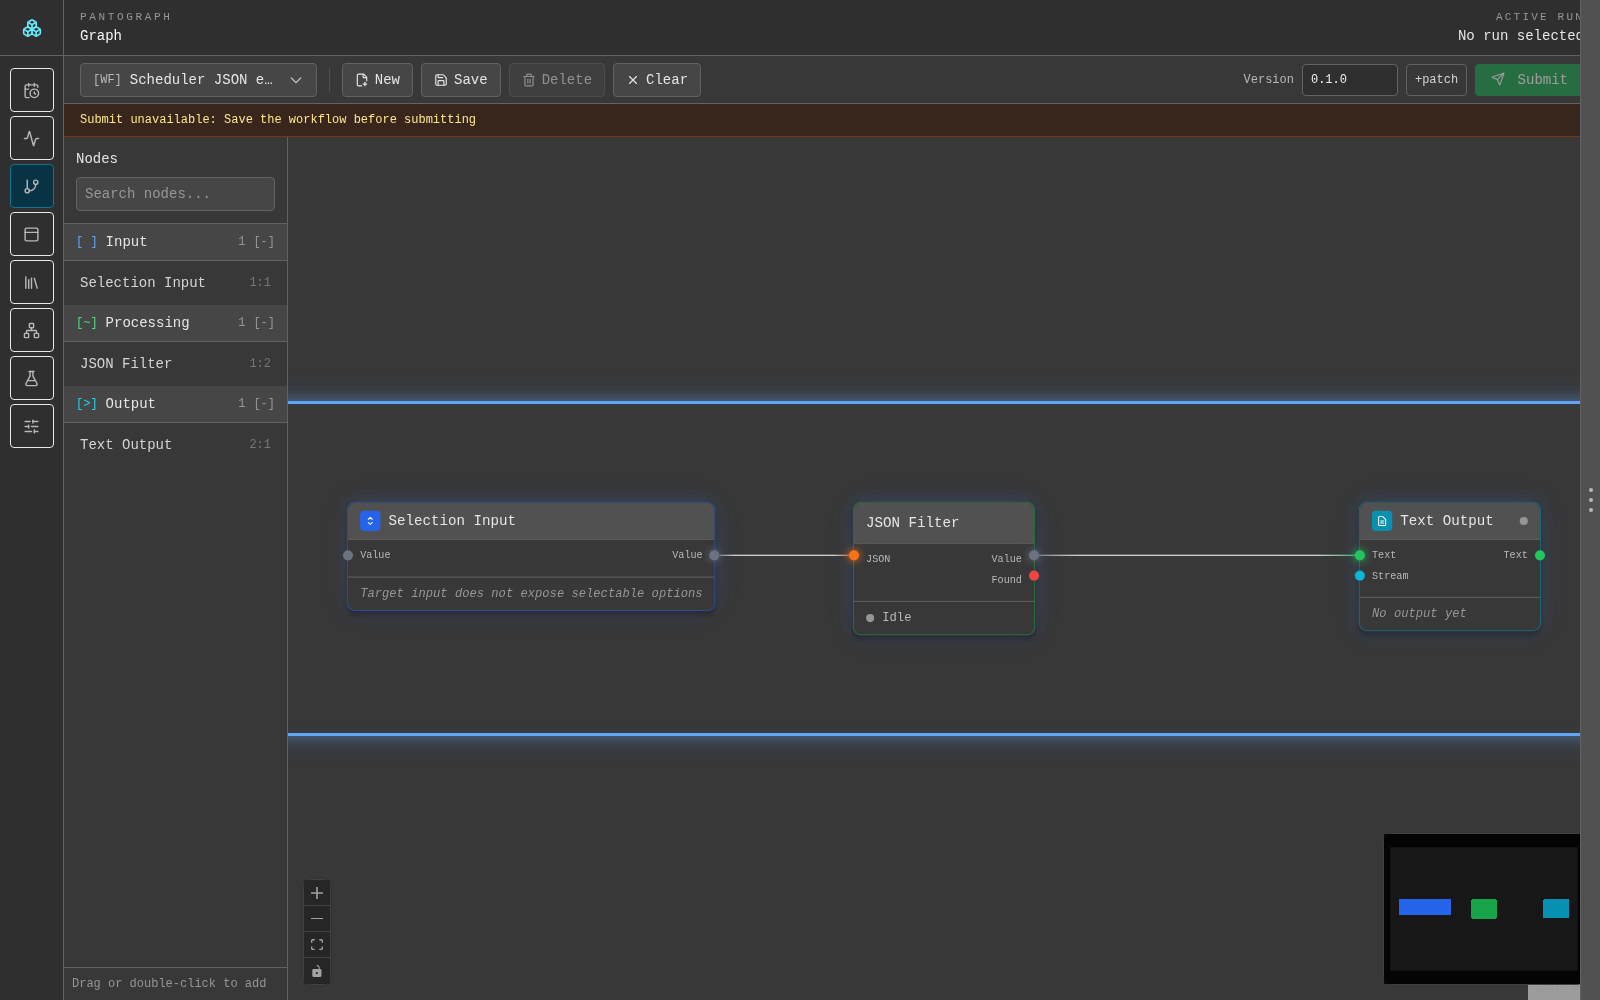
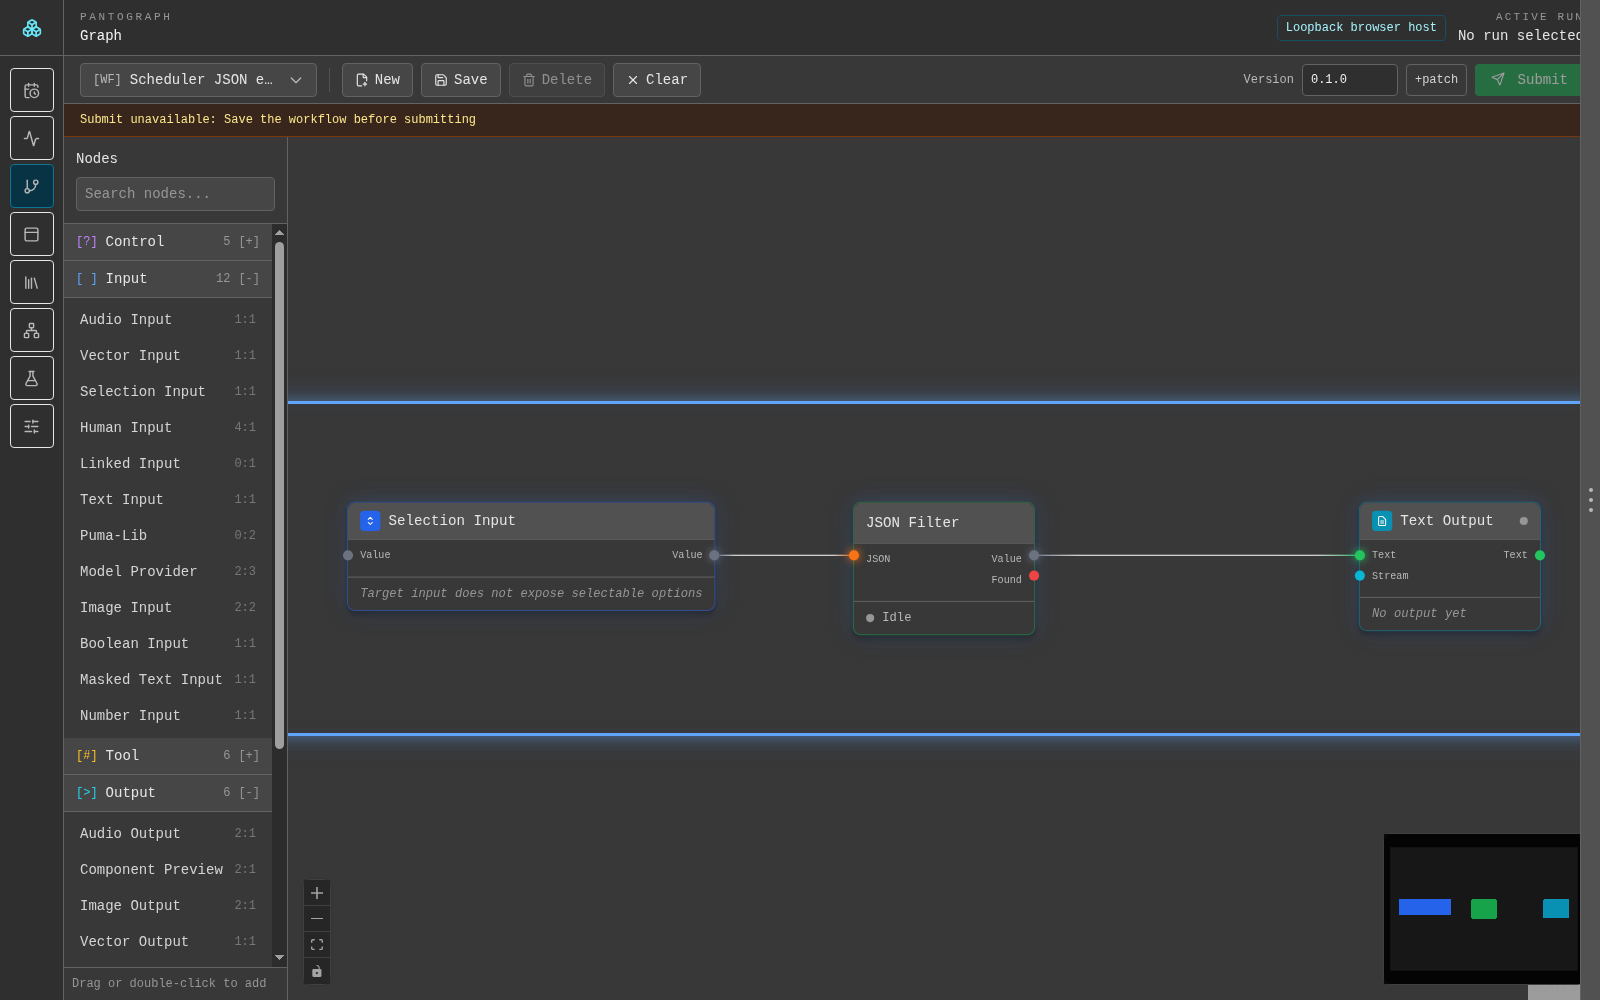
Refresh Pantograph portfolio captures from approved live host

diff --git a/docs/portfolio/index.html b/docs/portfolio/index.html
@@ -70,10 +70,10 @@
           <div class="project-body"><div class="project-copy"><h3 id="pantograph-title">Pantograph</h3><p class="project-deck">Make the workflow<br>visible.</p><p>A local-first, Rust-native platform for node-based AI workflows. The optional Svelte/Tauri workbench sits over native workflow, inference, scheduling, and diagnostic modules.</p><ul class="project-points"><li>Node contracts and graph-based composition</li><li>Resource-aware runtime scheduling</li><li>Run artifacts, diagnostics, and provenance</li></ul><div class="tags"><span>Rust</span><span>Svelte / Tauri</span><span>Graph tooling</span></div><div class="project-links"><a href="https://github.com/MrScripty/Pantograph">Explore the source <svg class="icon " viewBox="0 0 24 24" fill="none" stroke="currentColor" stroke-width="1.6" stroke-linecap="round" stroke-linejoin="round" aria-hidden="true"><path d="M5 19 19 5M5 5h14v14"/></svg></a><a href="https://github.com/MrScripty/Pantograph/blob/main/ARCHITECTURE.md">Architecture & status <svg class="icon " viewBox="0 0 24 24" fill="none" stroke="currentColor" stroke-width="1.6" stroke-linecap="round" stroke-linejoin="round" aria-hidden="true"><path d="M5 19 19 5M5 5h14v14"/></svg></a></div></div>
           <div class="project-visual" id="visual-pantograph">
             <!-- SCREENSHOT_SLOT:pantograph:START -->
-<figure class="app-capture"><a class="capture-button" href="assets/pantograph-node-editor.png" aria-label="Enlarge Pantograph Svelte editor showing Selection Input connected to JSON Filter and Text Output, with Submit unavailable and No output yet visible."><img src="assets/pantograph-node-editor.png" alt="Pantograph Svelte editor showing Selection Input connected to JSON Filter and Text Output, with Submit unavailable and No output yet visible." width="1600" height="1000" loading="lazy" decoding="async"><span class="capture-zoom" aria-hidden="true">View full size <svg class="icon " viewBox="0 0 24 24" fill="none" stroke="currentColor" stroke-width="1.6" stroke-linecap="round" stroke-linejoin="round" aria-hidden="true"><path d="M5 19 19 5M5 5h14v14"/></svg></span></a><figcaption><strong>Actual Svelte editor · Browser render.</strong> The three-node graph is loaded; submission remains unavailable in this capture.</figcaption></figure><div class="demo-captures"><figure class="app-capture"><a class="capture-button" href="assets/pantograph-scheduler-success.png" aria-label="Enlarge Pantograph’s minimal browser demo host showing successful native Rust scheduler execution and JSON-extracted text."><img src="assets/pantograph-scheduler-success.png" alt="Pantograph’s minimal browser demo host showing successful native Rust scheduler execution and JSON-extracted text." width="1600" height="1535" loading="lazy" decoding="async"><span class="capture-zoom" aria-hidden="true">View full size <svg class="icon " viewBox="0 0 24 24" fill="none" stroke="currentColor" stroke-width="1.6" stroke-linecap="round" stroke-linejoin="round" aria-hidden="true"><path d="M5 19 19 5M5 5h14v14"/></svg></span></a><figcaption><strong>Native scheduler · Success.</strong> Real deterministic JSON extraction in a separate browser host.</figcaption></figure><figure class="app-capture"><a class="capture-button" href="assets/pantograph-scheduler-rejection.png" aria-label="Enlarge Pantograph’s minimal browser demo host showing a missing JSON path rejected and the output task marked Invalid."><img src="assets/pantograph-scheduler-rejection.png" alt="Pantograph’s minimal browser demo host showing a missing JSON path rejected and the output task marked Invalid." width="1600" height="1355" loading="lazy" decoding="async"><span class="capture-zoom" aria-hidden="true">View full size <svg class="icon " viewBox="0 0 24 24" fill="none" stroke="currentColor" stroke-width="1.6" stroke-linecap="round" stroke-linejoin="round" aria-hidden="true"><path d="M5 19 19 5M5 5h14v14"/></svg></span></a><figcaption><strong>Native scheduler · Rejection.</strong> Missing-path input produces an actual failed task and diagnostic record.</figcaption></figure></div>
+<figure class="app-capture"><a class="capture-button" href="assets/pantograph-node-editor.png" aria-label="Enlarge Pantograph’s Svelte Graph canvas connected to the loopback Rust host, with Selection Input, JSON Filter and Text Output. Editor submission remains unavailable in this host."><img src="assets/pantograph-node-editor.png" alt="Pantograph’s Svelte Graph canvas connected to the loopback Rust host, with Selection Input, JSON Filter and Text Output. Editor submission remains unavailable in this host." width="1600" height="1000" loading="lazy" decoding="async"><span class="capture-zoom" aria-hidden="true">View full size <svg class="icon " viewBox="0 0 24 24" fill="none" stroke="currentColor" stroke-width="1.6" stroke-linecap="round" stroke-linejoin="round" aria-hidden="true"><path d="M5 19 19 5M5 5h14v14"/></svg></span></a><figcaption><strong>Actual Svelte Graph · Live loopback host.</strong> Backend-produced graph and definitions; editor submission is outside the demo host’s capabilities.</figcaption></figure><div class="demo-captures"><figure class="app-capture"><a class="capture-button" href="assets/pantograph-scheduler-success.png" aria-label="Enlarge Pantograph’s minimal browser demo host showing successful native Rust scheduler execution and JSON-extracted text."><img src="assets/pantograph-scheduler-success.png" alt="Pantograph’s minimal browser demo host showing successful native Rust scheduler execution and JSON-extracted text." width="1600" height="1612" loading="lazy" decoding="async"><span class="capture-zoom" aria-hidden="true">View full size <svg class="icon " viewBox="0 0 24 24" fill="none" stroke="currentColor" stroke-width="1.6" stroke-linecap="round" stroke-linejoin="round" aria-hidden="true"><path d="M5 19 19 5M5 5h14v14"/></svg></span></a><figcaption><strong>Native scheduler · Success.</strong> Real deterministic JSON extraction through the persistent native host, with retained output.</figcaption></figure><figure class="app-capture"><a class="capture-button" href="assets/pantograph-scheduler-rejection.png" aria-label="Enlarge Pantograph’s minimal browser demo host showing a missing JSON path rejected and the output task marked Invalid."><img src="assets/pantograph-scheduler-rejection.png" alt="Pantograph’s minimal browser demo host showing a missing JSON path rejected and the output task marked Invalid." width="1600" height="1396" loading="lazy" decoding="async"><span class="capture-zoom" aria-hidden="true">View full size <svg class="icon " viewBox="0 0 24 24" fill="none" stroke="currentColor" stroke-width="1.6" stroke-linecap="round" stroke-linejoin="round" aria-hidden="true"><path d="M5 19 19 5M5 5h14v14"/></svg></span></a><figcaption><strong>Native scheduler · Rejection.</strong> Missing-path input produces an actual failed task and diagnostic record.</figcaption></figure></div>
 <!-- SCREENSHOT_SLOT:pantograph:END -->
           </div></div>
-          <details class="project-boundary"><summary>Technical scope &amp; verification</summary><p>Moving toward durable, scheduler-owned task execution. Implementation status is tracked in the repository; there is currently no single green repository-wide compliance command. The captures show native deterministic execution and browser editor rendering as separate surfaces. Desktop submission and model inference are outside this demonstration.</p></details>
+          <details class="project-boundary"><summary>Technical scope &amp; verification</summary><p>The captures use the real Svelte workbench connected to a persistent Rust scheduler over loopback HTTP. Diagnostics query the running service and the I/O Inspector reads retained output. The Graph canvas does not support editor submission in this demo host. These are browser captures; native Tauri execution and model inference are outside this demonstration.</p></details>
         </article>
 
         <article class="dataset-project" id="tuldok" aria-labelledby="tuldok-title"><div class="dataset-title"><span class="project-number">03</span><p class="eyebrow">DATASET TOOLING</p><h3 id="tuldok-title">Tuldok</h3></div><div class="dataset-copy"><p class="dataset-deck">A multimodal dataset workbench.</p><p>A local workspace for collecting, annotating, reviewing, and exporting datasets. Current workflows span image and text records, static mesh imports, and simulation-sequence inspection. Explicit provenance and human review keep source records and release decisions inspectable.</p><div class="tags"><span>Python</span><span>Browser UI</span><span>Dataset provenance</span></div><a class="text-link" href="https://github.com/MrScripty/Tuldok">Explore the source <svg class="icon " viewBox="0 0 24 24" fill="none" stroke="currentColor" stroke-width="1.6" stroke-linecap="round" stroke-linejoin="round" aria-hidden="true"><path d="M5 19 19 5M5 5h14v14"/></svg></a></div></article>

diff --git a/docs/portfolio/SOURCES.md b/docs/portfolio/SOURCES.md
@@ -75,6 +75,6 @@ The hero is an original SVG editorial concept map. The Pumas architecture panel 
 
 All source pixels were inspected before integration. Original PNG bytes are preserved; CSS scales images without cropping. File hashes, dimensions, source URLs, exact capture commits, and scope are in `assets/capture-provenance.json`.
 
-- **Pantograph**: capture branch pinned to `7c9cc6d94da0f4612d5240967bcc5e0aaafa6a9b`. The actual Svelte editor and the deterministic native scheduler demo are separate surfaces. Success and missing-path rejection screenshots show actual native results; no model weights, GPU inference, or end-to-end Tauri execution is established. Guide: https://github.com/MrScripty/Pantograph/blob/7c9cc6d94da0f4612d5240967bcc5e0aaafa6a9b/examples/scheduler-demo/README.md
+- **Pantograph**: approved captures pinned to `7fc3584cca8bef647b60ebf303c4b5d6b37d98bd` in PR #71. The real Svelte workbench connects to a persistent Rust workflow service over loopback HTTP. Diagnostics query that running service and the I/O Inspector reads retained scalar artifact bytes. The model catalog is a real isolated empty Pumas library. Success and deliberate missing-path rejection captures preserve actual native results. Graph editor mutation/submission is outside the demo host; native Tauri and model inference remain unqualified. Source PNG bytes are unchanged. Guide: https://github.com/MrScripty/Pantograph/blob/7fc3584cca8bef647b60ebf303c4b5d6b37d98bd/examples/scheduler-demo/README.md
 - **Rheon**: source capture commit `a2ebb8f11bcb65df0c70c45bfb8234d08b293a0a`, running app commit `34235d33c886aa05b5bdf95d920b863d1fb2ad6f`. Native Linux software-rendered solver comparison, 1650 × 900. The unequal accepted-time warning is visible. This is exploratory fixed-box solver evidence, not physical validation or a qualified speed comparison. Source: https://github.com/MrScripty/Rheon/blob/a2ebb8f11bcb65df0c70c45bfb8234d08b293a0a/README.md
 - **Kenoma**: source capture commit `9739080116b658e6248816f4e4239c4fde95ca94`, running app commit `e2ea6acc5db44794ae8b49beb877f5a8bccea056`. Chromium151, 1600 × 1000, actual Rust/WASM editor. Schematic posing and joint creasing are retained. Source: https://github.com/MrScripty/Kenoma/blob/9739080116b658e6248816f4e4239c4fde95ca94/README.md

diff --git a/docs/portfolio/README.md b/docs/portfolio/README.md
@@ -24,7 +24,7 @@ Then visit `http://127.0.0.1:8080` on that same computer. There is no dependency
 - An accessible screenshot enlargement dialog with a direct-image fallback
 - Dark / light sections, reduced-motion support, print styling, and a skip link
 
-The Pumas panel currently shows a clearly labeled authored architecture summary, not an app screenshot. Pantograph shows genuine captures of its browser-rendered Svelte editor and separate native scheduler demo. Rheon and Kenoma show genuine running-application captures. Each project has concise capability copy; detailed scope and verification notes use closed disclosure sections.
+The Pumas panel currently shows a clearly labeled authored architecture summary, not an app screenshot. Pantograph shows approved genuine captures from PR #71 revision `7fc3584`: the browser-rendered Svelte Graph connected to a live loopback Rust host, plus successful and deliberately rejected deterministic scheduler runs. The workbench reads retained output; native Tauri execution and model inference are not claimed. Rheon and Kenoma show genuine running-application captures. Each project has concise capability copy; detailed scope and verification notes use closed disclosure sections.
 
 ## Checks
 
